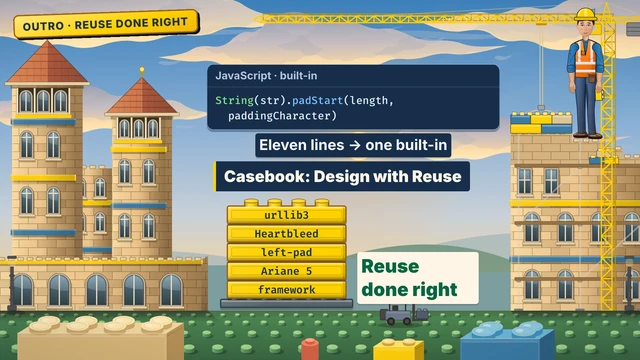
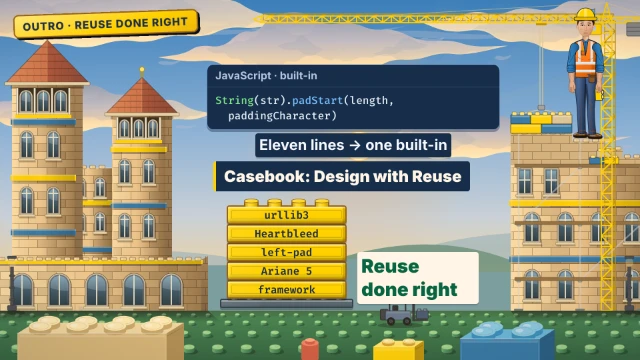
Add subtle cloud-shape ripples to reuse song

diff --git a/js/song-video/brick-site.js b/js/song-video/brick-site.js
@@ -151,8 +151,22 @@
     },
   ];
 
-  function cloudContours(variant) {
-    const profile = CLOUD_PROFILES[variant % CLOUD_PROFILES.length];
+  /** Gentle travelling ripples keep the tapered tips fixed. Subtract the
+   * initial wave so reduced motion retains the authored cloud silhouette. */
+  function cloudPointAt([x, y], time, variant) {
+    const phase = x / 65 + variant * 1.6;
+    const ripple = 1.4 * (Math.sin(time * 0.42 + phase) - Math.sin(phase))
+      + 0.6 * (Math.sin(time * 0.23 - phase * 0.7) - Math.sin(-phase * 0.7));
+    const taper = Math.sin(Math.PI * (x + 30) / 420);
+    return [x, y + taper * ripple];
+  }
+
+  function cloudContours(variant, time = 0) {
+    const source = CLOUD_PROFILES[variant % CLOUD_PROFILES.length];
+    const profile = {
+      upper: source.upper.map(point => cloudPointAt(point, time, variant)),
+      lower: source.lower.map(point => cloudPointAt(point, time, variant)),
+    };
     const body = cloudOutline([...profile.upper, ...profile.lower.toReversed()]);
     const rim = [[1, 4], [6, 9], [11, 13]].map(([from, to]) => {
       const edge = profile.lower.slice(from, to + 1);
@@ -192,21 +206,21 @@
     }, defs);
     const highlightId = lighting.id;
     const contours = cloudContours(variant);
-    svg('path', { class: 'bs-cloud-body', d: contours.body }, shape);
-    svg('path', { class: 'bs-cloud-sunlight', fill: `url(#${highlightId})`, d: contours.body }, shape);
+    const body = svg('path', { class: 'bs-cloud-body', 'data-testid': 'reuse-cloud-outline', d: contours.body }, shape);
+    const sunlight = svg('path', { class: 'bs-cloud-sunlight', fill: `url(#${highlightId})`, d: contours.body }, shape);
     const clipId = `bs-cloud-interior-${variant}`;
     const clip = svg('clipPath', { id: clipId }, shape);
-    svg('path', { d: contours.body }, clip);
+    const clipShape = svg('path', { d: contours.body }, clip);
     const interior = svg('g', { 'clip-path': `url(#${clipId})` }, shape);
     const folds = cloudInterior(interior, variant, highlightId);
-    svg('path', { class: 'bs-cloud-light', fill: `url(#${highlightId})`, d: contours.rim }, shape);
+    const rim = svg('path', { class: 'bs-cloud-light', fill: `url(#${highlightId})`, d: contours.rim }, shape);
     // The small scraps vary in position and width; they never repeat evenly.
     const wisps = svg('g', { 'data-testid': 'reuse-cloud-edge-wisps' }, shape);
     [[-39, 31, 32], [317, 40, 44], [365, 25, 24]].forEach(([x, y, w], i) => {
       const shift = 8 * hash01(variant * 31 + i * 7);
       svg('path', { class: 'bs-cloud-scrap', d: cloudOutline([[x, y], [x + w * 0.2, y - 3 - shift * 0.2], [x + w * 0.6, y - 1], [x + w, y - 5], [x + w * 0.75, y + 1], [x + w * 0.35, y + 3]]) }, wisps);
     });
-    return { node: g, lighting, folds, wisps, scale };
+    return { node: g, lighting, folds, wisps, scale, variant, bodyPaths: [body, sunlight, clipShape], rim };
   }
 
   /** Move the bank and aim its light in local SVG coordinates. The gradient
@@ -214,6 +228,11 @@
   function poseCloud(bank, time, sun) {
     const x = bank.x + time * bank.speed;
     bank.node.setAttribute('transform', `translate(${x.toFixed(3)} ${bank.y})`);
+    // The body, light overlay, clipping edge, and rim share one moving
+    // silhouette, so the ripple cannot leave a detached highlight or seam.
+    const contours = cloudContours(bank.variant, time);
+    bank.bodyPaths.forEach(path => path.setAttribute('d', contours.body));
+    bank.rim.setAttribute('d', contours.rim);
     // As in the Security song, thin edges catch a slightly faster wind than
     // the inner folds. Slow, continuous shear avoids bobbing or reset jumps.
     // The caller freezes this same song-time clock under reduced motion.

diff --git a/tests/song-reuse-sunrise.spec.js b/tests/song-reuse-sunrise.spec.js
@@ -104,13 +104,24 @@ async function cloudDetails(page) {
   }));
 }
 
+// Sample the painted silhouette in its own coordinates, excluding bank drift.
+async function cloudSilhouettes(page) {
+  return page.getByTestId('reuse-cloud-outline').evaluateAll(paths => paths.map(path => {
+    const length = path.getTotalLength();
+    return Array.from({ length: 24 }, (_, i) => {
+      const point = path.getPointAtLength(length * i / 24);
+      return [Number(point.x.toFixed(3)), Number(point.y.toFixed(3))];
+    });
+  }));
+}
+
 async function ambientPositions(page) {
   const clouds = await page.getByTestId('reuse-cloud-bank').evaluateAll(nodes => nodes.map(node => {
     const rect = node.getBoundingClientRect();
     return [rect.x, rect.y];
   }));
   const truck = await page.getByTestId('reuse-site-forklift').boundingBox();
-  return { clouds, details: await cloudDetails(page), highlights: await cloudLightAxes(page), truck: [truck.x, truck.y] };
+  return { clouds, silhouettes: await cloudSilhouettes(page), details: await cloudDetails(page), highlights: await cloudLightAxes(page), truck: [truck.x, truck.y] };
 }
 
 test('Not a One-Time Investment: patch outcomes hold long enough to read before the next picture', async ({ page }) => {
@@ -579,6 +590,27 @@ test('Not a One-Time Investment: cloud folds and wisps move subtly within each b
   }
   await seek(page, 0);
   expect(await cloudDetails(page), 'rewinding restores the original cloud details').toEqual(beginning);
+});
+
+test('Not a One-Time Investment: cloud silhouettes ripple gently and reproduce the same shape when seeking', async ({ page }) => {
+  await page.emulateMedia({ reducedMotion: 'no-preference' });
+  await page.goto(song.player);
+  await expect(page.getByTestId('reuse-cloud-outline').first()).toBeVisible();
+  await seek(page, 0);
+  const beginning = await cloudSilhouettes(page);
+  for (const time of [4, 11, 23, 85, 180, 285]) {
+    await seek(page, time);
+    const picture = await cloudSilhouettes(page);
+    picture.forEach((outline, i) => {
+      const movement = outline.map(([x, y], p) => Math.hypot(x - beginning[i][p][0], y - beginning[i][p][1]));
+      expect(Math.max(...movement), 'the cloud changes shape as well as drifting').toBeGreaterThan(0.25);
+      expect(Math.max(...movement), 'ripples remain small enough to stay behind the lesson').toBeLessThan(6);
+    });
+    await seek(page, 0);
+    expect(await cloudSilhouettes(page), 'rewinding restores the authored silhouette').toEqual(beginning);
+    await seek(page, time);
+    expect(await cloudSilhouettes(page), 'the same song time restores the same shape').toEqual(picture);
+  }
 });
 
 test('Not a One-Time Investment: moving cloud highlights always face the rising sun', async ({ page }) => {

diff --git a/scripts/song-video/README.md b/scripts/song-video/README.md
@@ -601,7 +601,10 @@ travelling less than five percent of the stage width over the song without
 wrapping or jumping. Both their positions and light directions follow song
 time. As in the Security song, thin wisps shear a little faster than the
 clipped inner folds, while sunlit filaments remain anchored to the bank's
-sun-facing light field. All cloud motion remains fixed under reduced motion.
+sun-facing light field. Small travelling ripples flex the cloud silhouettes,
+with staggered phases and fixed tapered tips. Body, clipping edge, and lit
+rim share the same contour so the shading stays attached. All cloud motion
+remains fixed under reduced motion.
 The changing palette follows
 [NOAA's cloud-colour explanation](https://www.noaa.gov/jetstream/clouds/color-of-clouds).
 UCLA blue and gold accent the construction and teaching bricks.
